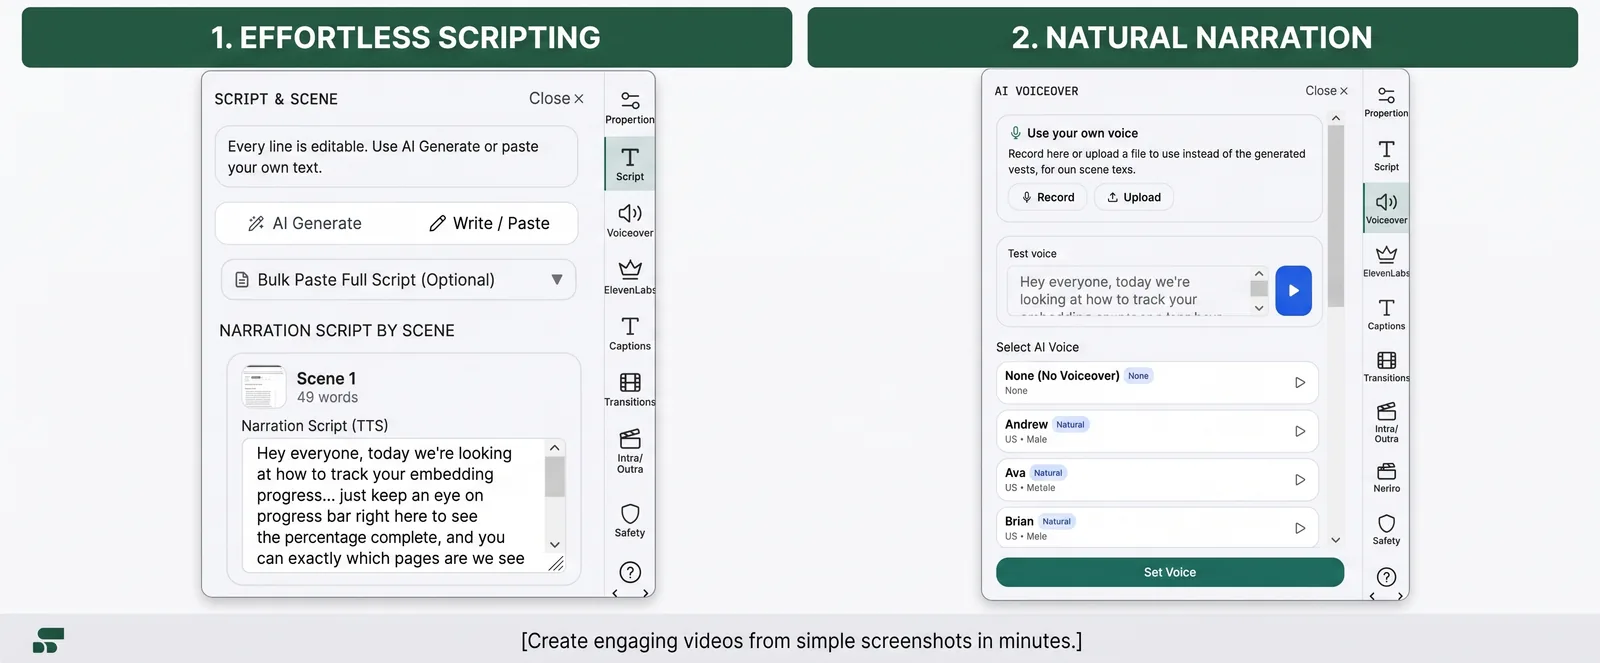
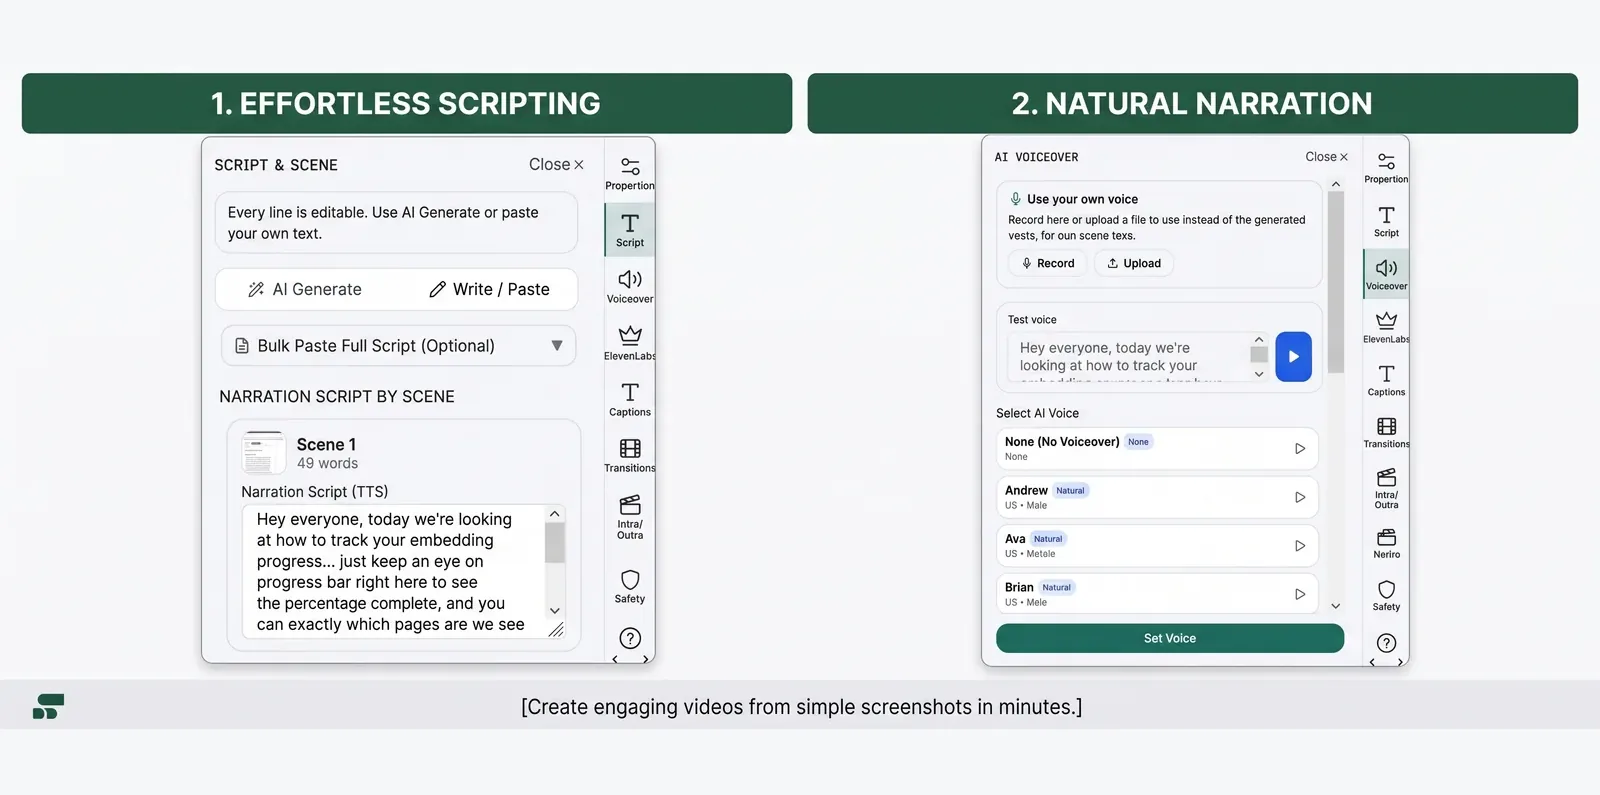
feat: update image handling and unify aspect ratio for homepage shots

diff --git a/src/data/showcase.ts b/src/data/showcase.ts
@@ -10,11 +10,14 @@
  *  - Screenshots: capture at 2560px wide, export WebP or AVIF, drop in
  *    /public/images/steps/. Point `image` at the path.
  *
- *    They are WebP, capped at 1600px wide, and are real captures of the
- *    product rather than mockups. The originals were 2.3 MB of PNG and JPEG
- *    between them, which is not a reasonable thing to put above the fold;
- *    converted they are 180 KB for all four. Anything added here should get
- *    the same treatment.
+ *    They are WebP, real captures of the product rather than mockups, and all
+ *    of them are exactly 1600x795 - padded onto that canvas with the mat colour
+ *    if the capture was a different shape. They are shown side by side and in a
+ *    tabbed panel, so a shot that is not that shape makes cards of unequal
+ *    height and a panel that jumps as you change tab. The originals were 2.3 MB
+ *    of PNG and JPEG between them, which is not a reasonable thing to put above
+ *    the fold; converted they are under 200 KB for all five. Anything added here
+ *    should get the same treatment.
  *  - Clips: keep them under ~15 seconds and under ~3 MB, H.264 MP4, and always
  *    export a `poster` still alongside. The poster is what people actually see
  *    first; the video only downloads once it is on screen or clicked.
@@ -29,8 +32,6 @@ export interface ShowcasePanel {
   body: string;
   bullets: string[];
   image?: string;
-  /** `width / height` of that image, so the frame reserves the right box. */
-  ratio?: number;
   video?: string;
   poster?: string;
   /** Fake URL drawn in the browser chrome above the media. */
@@ -45,7 +46,6 @@ export const showcasePanels: ShowcasePanel[] = [
     body: "Pick a folder, a ZIP, or a pile of loose images. They get sorted by filename, so the order you saved them in is the order they appear in the video.",
     bullets: ["Folders and ZIPs unpack automatically", "Up to 50 screenshots per project", "Presets for YouTube, TikTok and Teams"],
     image: "/images/steps/new-project.webp",
-    ratio: 957 / 708,
     url: "app.aivideo.ai/create",
   },
   {
@@ -55,7 +55,6 @@ export const showcasePanels: ShowcasePanel[] = [
     body: "Draw a box around the button you want people to click. Blur the account number. Add an arrow, a caption, a step number. Everything you place is remembered when you re-render.",
     bullets: ["Highlight, blur, arrow, text and shape tools", "Blur travels with the region, not the pixel", "Undo history per scene"],
     image: "/images/steps/editor.webp",
-    ratio: 1600 / 795,
     url: "app.aivideo.ai/create/editor",
   },
   {
@@ -65,7 +64,6 @@ export const showcasePanels: ShowcasePanel[] = [
     body: "Drag a box around whatever matters on a screenshot. Every box becomes a highlight, and any of them can be where the camera moves to. The render pushes in, holds, then pulls back out for the next step: it reads like someone recorded their screen, except nothing was recorded.",
     bullets: ["Draw the boxes once, before the editor opens", "Any box can be a zoom target, or none of them", "Transition and hold timing per step"],
     image: "/images/steps/zoom-and-camera.webp",
-    ratio: 1600 / 795,
     url: "app.aivideo.ai/create/preview",
   },
   {
@@ -75,7 +73,6 @@ export const showcasePanels: ShowcasePanel[] = [
     body: "The script is generated per step from the screenshot and your notes, then read out loud. Rewrite any line you disagree with and only that line is re-recorded.",
     bullets: ["Script drafted per step", "Edit a line, re-record just that line", "Captions burned in or kept as a sidecar file"],
     image: "/images/steps/script-and-voice.webp",
-    ratio: 1600 / 663,
     url: "app.aivideo.ai/create/voice",
   },
   {
@@ -85,7 +82,6 @@ export const showcasePanels: ShowcasePanel[] = [
     body: "Rendering happens on our machines, not yours. Close the tab if you want. When it is done you get an MP4 at the aspect ratio you picked, with the music bed and captions baked in.",
     bullets: ["16:9, 9:16, 1:1 and 4:5", "Runs server-side, survives a closed tab", "Download or share a link"],
     image: "/images/steps/export.webp",
-    ratio: 1600 / 795,
     url: "app.aivideo.ai/create/export",
   },
 ];

diff --git a/src/sections/HowItWorksSection.tsx b/src/sections/HowItWorksSection.tsx
@@ -1,27 +1,35 @@
 import { Reveal } from "@/components/site/Reveal";
 import { Shot } from "@/components/site/Media";
 
+/**
+ * Every homepage shot is 1600x795, so this one number fits all of them.
+ *
+ * It has to be one number. The shots appear side by side in a three-card grid
+ * and in a tabbed panel that swaps between them, and the frame reserves its box
+ * before the image loads - so a per-image ratio gave cards of different heights
+ * and a panel that jumped as you changed tab. The images were padded onto a
+ * common canvas rather than declaring a ratio the picture does not have.
+ */
+const SHOT_RATIO = 1600 / 795;
+
 const steps = [
   {
     n: "1",
     title: "Upload your screenshots",
     body: "Drop a folder or a ZIP. They are sorted by filename, and that order becomes the order of the video. Pick an aspect ratio and you have a project.",
     image: "/images/steps/new-project.webp",
-    ratio: 957 / 708,
   },
   {
     n: "2",
     title: "Mark up what matters",
     body: "Box the button someone should click and the camera zooms to it. Blur what should not be public. The narration is drafted from your screenshots, and you change any line you disagree with.",
     image: "/images/steps/editor.webp",
-    ratio: 1600 / 795,
   },
   {
     n: "3",
     title: "Render and download",
     body: "We stitch the screenshots, narration, zooms and music into one MP4 on our machines. Close the tab; it will be waiting in your library.",
     image: "/images/steps/export.webp",
-    ratio: 1600 / 795,
   },
 ];
 
@@ -44,7 +52,7 @@ export default function HowItWorksSection() {
                 <Shot
                   src={step.image}
                   alt={step.title}
-                  ratio={step.ratio}
+                  ratio={SHOT_RATIO}
                   bare
                   placeholder={`Step ${step.n}`}
                   sizes="(max-width: 768px) 100vw, 360px"

diff --git a/src/sections/ShowcaseSection.tsx b/src/sections/ShowcaseSection.tsx
@@ -14,6 +14,17 @@ import { showcasePanels } from "@/data/showcase";
  * Only the first panel's screenshot is in the DOM at a time, so switching tabs
  * downloads one image instead of the browser fetching five up front.
  */
+/**
+ * Every homepage shot is 1600x795, so this one number fits all of them.
+ *
+ * It has to be one number. The shots appear side by side in a three-card grid
+ * and in a tabbed panel that swaps between them, and the frame reserves its box
+ * before the image loads - so a per-image ratio gave cards of different heights
+ * and a panel that jumped as you changed tab. The images were padded onto a
+ * common canvas rather than declaring a ratio the picture does not have.
+ */
+const SHOT_RATIO = 1600 / 795;
+
 export default function ShowcaseSection() {
   const [active, setActive] = useState(0);
   const panel = showcasePanels[active];
@@ -79,7 +90,7 @@ export default function ShowcaseSection() {
               key={panel.id}
               src={panel.image}
               alt={panel.title}
-              ratio={panel.ratio ?? 16 / 10}
+              ratio={SHOT_RATIO}
               bare
               placeholder={panel.tab}
               sizes="(max-width: 1024px) 100vw, 700px"
